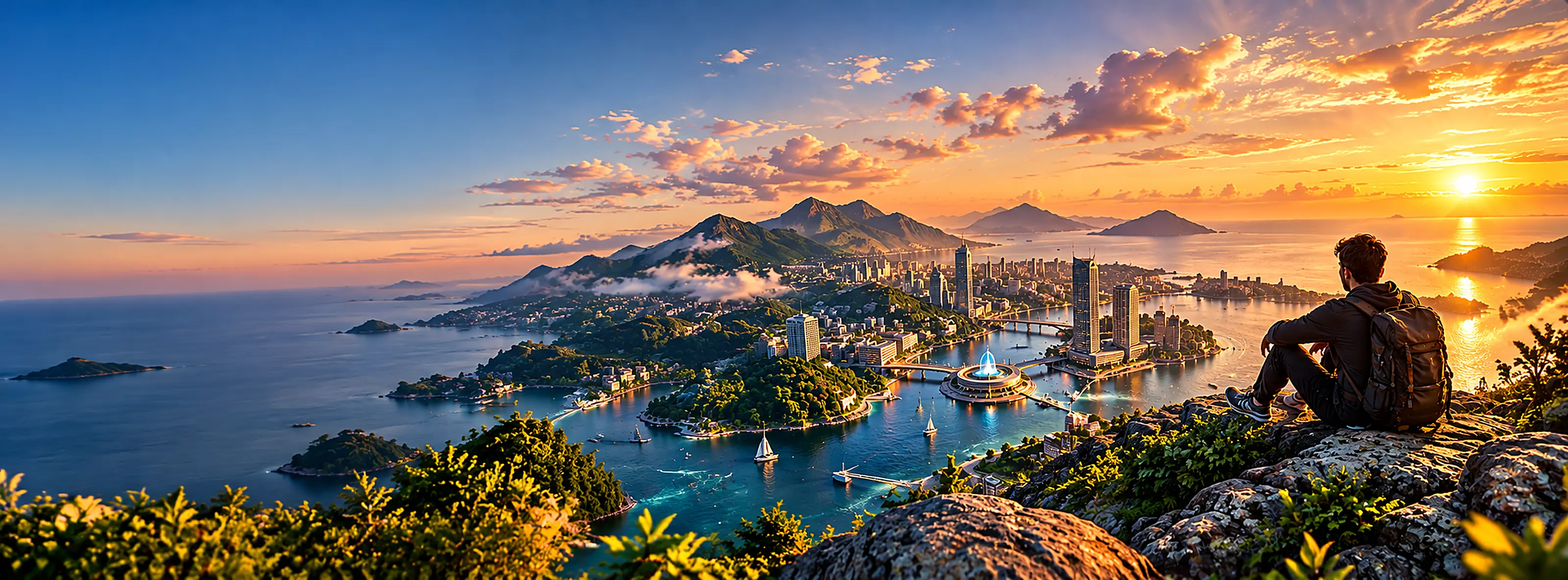
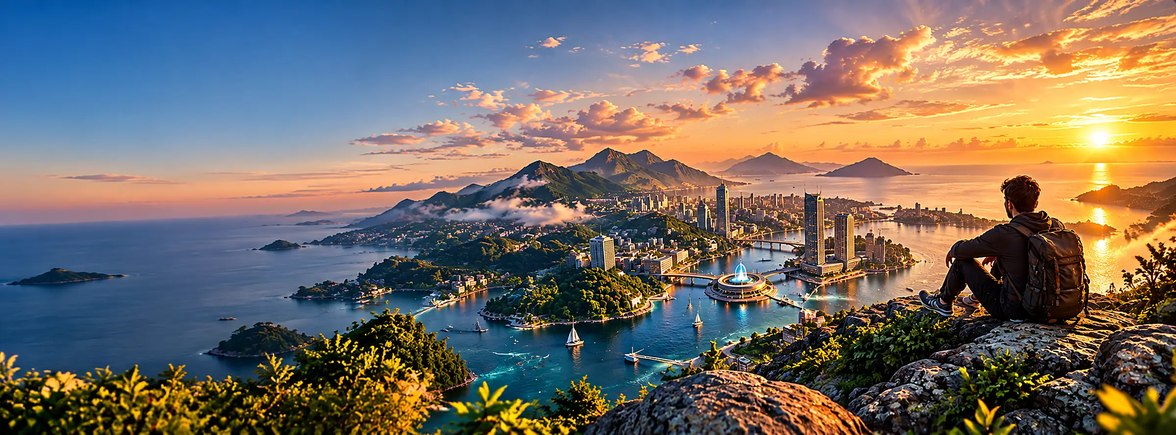
Баннер тёмной темы грузил обе картинки сразу — убрана задержка (0.49.4)
BannerArt рендерил <img> и светлого рисунка, и тёмного фото одновременно,
оба с fetchPriority="high"; ненужный кадр прятался через display:none, но
браузер всё равно его скачивал. Теперь BannerArt берёт тему из
useMenuTheme() и рендерит только нужную картинку. Заодно само ночное фото
пересобрано компактнее: 3200×1185 → 2400×889 (~270 КБ вместо ~426 КБ).

Claude-Session: https://claude.ai/code/session_015aVF948j873q1zWanWU6P7

diff --git a/src/components/HomeBanner.tsx b/src/components/HomeBanner.tsx
@@ -2,6 +2,7 @@ import { useId } from 'react';
 import type { ReactNode } from 'react';
 import heroPeak from '../assets/home-peak.svg';
 import heroPeakDark from '../assets/home-peak-dark.webp';
+import { useMenuTheme } from '../menuTheme';
 import type { NextPeak } from '../nextPeak';
 import './HomeBanner.css';
 
@@ -9,8 +10,8 @@ import './HomeBanner.css';
 const ART_W = 2000;
 const ART_H = 888;
 /** Размер ночной фотографии (тёмная тема). */
-const ART_DARK_W = 3200;
-const ART_DARK_H = 1185;
+const ART_DARK_W = 2400;
+const ART_DARK_H = 889;
 /** Золотые звёзды маршрута на рисунке (координаты рисунка). */
 const STARS = [
   { x: 1350, y: 320, delay: 0 },
@@ -22,35 +23,44 @@ const STARS = [
 const TRAIL =
   'M830 792 C858 787,957 777,1000 762 C1042 747,1064 729,1085 700 C1106 671,1108 622,1125 590 C1142 557,1170 525,1185 505 C1200 485,1202 479,1215 468 C1228 457,1249 455,1265 440 C1281 425,1296 400,1310 380 C1324 360,1337 342,1350 320 C1362 297,1376 269,1385 245 C1394 221,1399 189,1402 178';
 
-/** Фон: картинка гор (своя для каждой темы) и отдельный слой звёзд и облаков. Это только оформление, текста здесь нет. */
+/**
+ * Фон: картинка гор (своя для каждой темы) и отдельный слой звёзд и облаков. Это только оформление, текста здесь нет.
+ * Грузим только картинку текущей темы — иначе браузер тянет обе (рисунок и фото) сразу при каждом открытии
+ * главной, и большое ночное фото задерживает прорисовку баннера, даже пока оно не видно (0.49.4).
+ */
 function BannerArt() {
   const glow = useId().replace(/:/g, '');
+  const [theme] = useMenuTheme();
   return (
     <div className="peak-art" aria-hidden="true">
-      <div className="peak-art-frame peak-art-frame-light">
-      <img src={heroPeak} alt="" width={ART_W} height={ART_H} decoding="async" fetchPriority="high" />
-      <i className="peak-cloud peak-cloud-a" />
-      <i className="peak-cloud peak-cloud-b" />
-      <svg className="peak-glow" viewBox={`170 0 ${ART_W} ${ART_H}`} preserveAspectRatio="none" focusable="false">
-        <defs>
-          <radialGradient id={glow}>
-            <stop offset="0" stopColor="#fff6c8" stopOpacity="0.95" />
-            <stop offset="0.35" stopColor="#ffd75e" stopOpacity="0.55" />
-            <stop offset="1" stopColor="#ffd75e" stopOpacity="0" />
-          </radialGradient>
-        </defs>
-        {STARS.map((s) => (
-          <circle key={s.y} className="peak-star" cx={s.x} cy={s.y} r={56} fill={`url(#${glow})`} style={{ animationDelay: `${s.delay}s`, transformOrigin: `${s.x}px ${s.y}px` }} />
-        ))}
-        <circle className="peak-spark" r="20" fill="#fffbe6">
-          <animateMotion dur="9s" repeatCount="indefinite" path={TRAIL} />
-          <animate attributeName="opacity" values="0;0.95;0.95;0" keyTimes="0;0.12;0.88;1" dur="9s" repeatCount="indefinite" />
-        </circle>
-      </svg>
-      </div>
-      <div className="peak-art-frame peak-art-frame-dark">
-        <img src={heroPeakDark} alt="" width={ART_DARK_W} height={ART_DARK_H} decoding="async" fetchPriority="high" />
-      </div>
+      {theme !== 'dark' && (
+        <div className="peak-art-frame peak-art-frame-light">
+        <img src={heroPeak} alt="" width={ART_W} height={ART_H} decoding="async" fetchPriority="high" />
+        <i className="peak-cloud peak-cloud-a" />
+        <i className="peak-cloud peak-cloud-b" />
+        <svg className="peak-glow" viewBox={`170 0 ${ART_W} ${ART_H}`} preserveAspectRatio="none" focusable="false">
+          <defs>
+            <radialGradient id={glow}>
+              <stop offset="0" stopColor="#fff6c8" stopOpacity="0.95" />
+              <stop offset="0.35" stopColor="#ffd75e" stopOpacity="0.55" />
+              <stop offset="1" stopColor="#ffd75e" stopOpacity="0" />
+            </radialGradient>
+          </defs>
+          {STARS.map((s) => (
+            <circle key={s.y} className="peak-star" cx={s.x} cy={s.y} r={56} fill={`url(#${glow})`} style={{ animationDelay: `${s.delay}s`, transformOrigin: `${s.x}px ${s.y}px` }} />
+          ))}
+          <circle className="peak-spark" r="20" fill="#fffbe6">
+            <animateMotion dur="9s" repeatCount="indefinite" path={TRAIL} />
+            <animate attributeName="opacity" values="0;0.95;0.95;0" keyTimes="0;0.12;0.88;1" dur="9s" repeatCount="indefinite" />
+          </circle>
+        </svg>
+        </div>
+      )}
+      {theme === 'dark' && (
+        <div className="peak-art-frame peak-art-frame-dark">
+          <img src={heroPeakDark} alt="" width={ART_DARK_W} height={ART_DARK_H} decoding="async" fetchPriority="high" />
+        </div>
+      )}
     </div>
   );
 }

diff --git a/src/components/HomeBanner.css b/src/components/HomeBanner.css
@@ -15,7 +15,7 @@
 .peak-art-frame { position: absolute; right: 0; bottom: 0; height: 100%; -webkit-mask-image: linear-gradient(90deg, transparent 4%, #000 44%); mask-image: linear-gradient(90deg, transparent 4%, #000 44%); }
 .peak-art-frame > img { position: absolute; inset: 0; width: 100%; height: 100%; object-fit: cover; }
 .peak-art-frame-light { aspect-ratio: 2000 / 888; }
-.peak-art-frame-dark { aspect-ratio: 3200 / 1185; display: none; }
+.peak-art-frame-dark { aspect-ratio: 2400 / 889; display: none; }
 :root[data-theme="dark"] .peak-art-frame-light { display: none; }
 :root[data-theme="dark"] .peak-art-frame-dark { display: block; }
 .peak-glow { position: absolute; inset: 0; width: 100%; height: 100%; }

diff --git a/index.html b/index.html
@@ -4,7 +4,7 @@
     <meta charset="UTF-8" />
     <meta name="viewport" content="width=device-width, initial-scale=1.0, viewport-fit=cover" />
     <title>PLAY YOUR LIFE</title>
-    <meta name="application-version" content="0.49.3" />
+    <meta name="application-version" content="0.49.4" />
     <meta name="description" content="PLAY YOUR LIFE — игровая система развития жизни, целей, привычек и достижений." />
     <meta name="theme-color" content="#edf8ff" />
     <meta name="apple-mobile-web-app-capable" content="yes" />

diff --git a/docs/HOME.md b/docs/HOME.md
@@ -6,7 +6,8 @@
 `HomeBanner`: подпись PLAY YOUR LIFE, заголовок «Ты творец / своей истории», подзаголовок, кнопка «Продолжить путь», четыре возможности (навигация в существующие разделы) и карточка «Следующая вершина». Текст, кнопка, возможности и карточка — настоящие HTML-элементы (доступные, отзывчивые на любой ширине), не часть картинки.
 
 - **Светлая тема**: горы нарисованы векторно (`src/assets/home-peak.svg`, генератор `scripts/make-home-peak.py`, чётко на любом экране), поверх них живые звёзды, световая частица и облака (SVG/CSS, отключаются при `prefers-reduced-motion`). Перерисовать — `python3 scripts/make-home-peak.py` (цвета, положение горы, тропа); если тропу или звёзды двигают, те же координаты меняют в `STARS` и `TRAIL` файла `HomeBanner.tsx`.
-- **Тёмная тема**: отдельная ночная фотография (`src/assets/home-peak-dark.webp`, 3200 × 1185, путник на скале над заливом и городом на закате) вместо рисунка гор; анимированные звёзды/частица/облака светлой темы не показываются — у фотографии уже есть закатное небо. Кадры переключаются чистым CSS по `:root[data-theme="dark"]` (`.peak-art-frame-light` / `.peak-art-frame-dark` в `HomeBanner.css`), заголовок, подзаголовок, кнопка «Продолжить путь» (золотая вместо синей) и возможности получили отдельные цвета для тёмной темы; карточка «Следующая вершина» не менялась — она и раньше была тёмной. Старый баннер с приветствием и текстом, запечённым в саму фотографию (до 0.41.0), не возвращён: фото — просто фон, весь текст — живой.
+- **Тёмная тема**: отдельная ночная фотография (`src/assets/home-peak-dark.webp`, 2400 × 889, ≈270 КБ, путник на скале над заливом и городом на закате) вместо рисунка гор; анимированные звёзды/частица/облака светлой темы не показываются — у фотографии уже есть закатное небо. Заголовок, подзаголовок, кнопка «Продолжить путь» (золотая вместо синей) и возможности получили отдельные цвета для тёмной темы; карточка «Следующая вершина» не менялась — она и раньше была тёмной. Старый баннер с приветствием и текстом, запечённым в саму фотографию (до 0.41.0), не возвращён: фото — просто фон, весь текст — живой.
+- **Загрузка (0.49.4)**: `BannerArt` (`HomeBanner.tsx`) рендерит `<img>` только активной темы (читает тему из `useMenuTheme()`) — второй картинки нет в разметке вовсе, пока тему не переключат; раньше оба `<img>` были в DOM всегда (один спрятан через `display: none`), и браузер их всё равно грузил оба с высоким приоритетом, из-за чего главная с фото ощутимо тормозила.
 
 ## Главные квесты месяца
 - Пользователь выбирает до трёх своих целей («Изменить выбор» → флажки → «Готово»).

diff --git a/CHANGELOG.md b/CHANGELOG.md
@@ -1,6 +1,10 @@
 # Актуальная версия PLAY YOUR LIFE
 
 
+## 0.49.4 — 21 октября 2026
+
+Пользователь сообщил, что баннер в тёмной теме (0.49.2) загружается с большой задержкой. Причина: `BannerArt` всегда рендерил `<img>` обеих тем сразу — светлый рисунок (`home-peak.svg`) и тёмное фото (`home-peak-dark.webp`), оба с `fetchPriority="high"`. CSS прятал ненужный кадр через `display: none`, но браузер всё равно скачивал его — то есть при каждом открытии главной (по умолчанию тёмная тема) лишние ≈420 КБ фото грузились в фоне, конкурируя за полосу с главным скриптом, стилями и шрифтами, хотя сама картинка ещё даже не видна. Исправлено: `BannerArt` (`src/components/HomeBanner.tsx`) берёт текущую тему через `useMenuTheme()` и рендерит `<img>` только активной темы — второй не запрашивается вовсе, пока тему не переключат. Заодно само фото (`src/assets/home-peak-dark.webp`) пересобрано компактнее: 3200×1185 → 2400×889, ≈270 КБ вместо ≈426 КБ (детализации с запасом хватает на ширину баннера на любом экране). Текст, кнопка, возможности и карточка «Следующая вершина» не менялись.
+
 ## 0.49.3 — 21 октября 2026
 
 После слияния фикса 0.49.1 (привычки TickTick) пользователь сообщил, что проблема осталась — привычки по-прежнему не импортировались, хотя фронтенд уже обновился (проверено скриншотом «ПРИВЫЧЕК ПОКА НЕТ» после деплоя Pages). Причина: серверный Worker (Cloudflare, мост к TickTick) деплоится отдельным workflow `.github/workflows/ticktick.yml`, который триггерится только на изменения путей `integrations/ticktick/**` — а фикс 0.49.1 менял `src/ticktickHabits.ts`, который Worker импортирует (`import ... from '../../src/ticktickHabits.ts'`), но который лежит вне этого пути. Поэтому мердж в `main` обновил сайт на GitHub Pages, но не передеплоил живой Worker: он продолжал работать на коде до фикса. Проверено историей запусков `Deploy TickTick bridge` — последний деплой был 19 октября, до фикса. Решено: workflow задеплоен вручную (`workflow_dispatch`) на актуальный `main`; список путей триггера дополнен `src/ticktickHabits.ts` и `src/ticktickSettings.ts` — единственными файлами `src/`, которые реально импортирует Worker, — чтобы этот класс рассинхронизации сайта и сервера не повторился молча.
